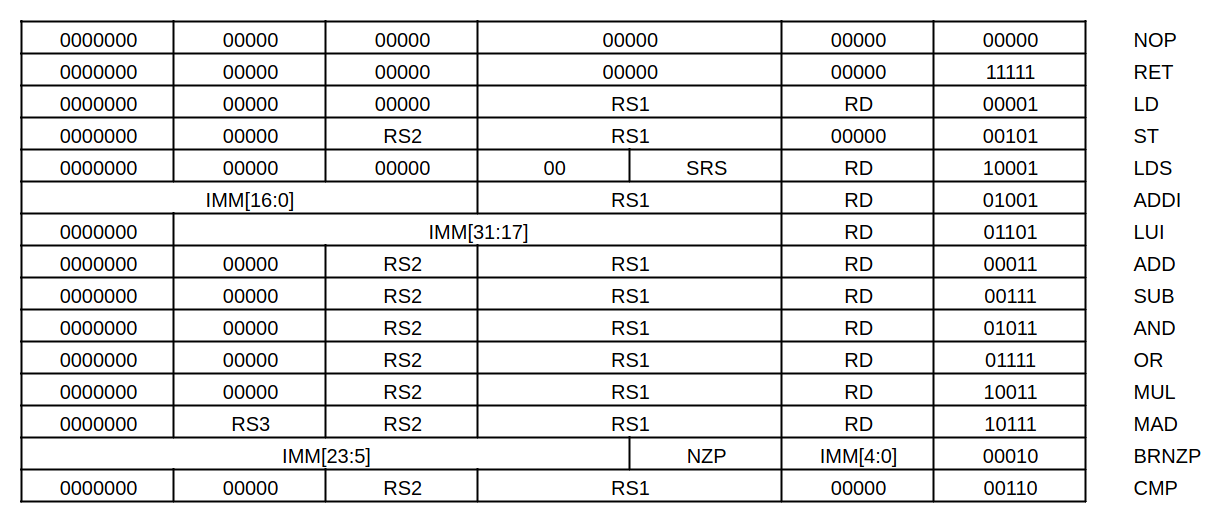
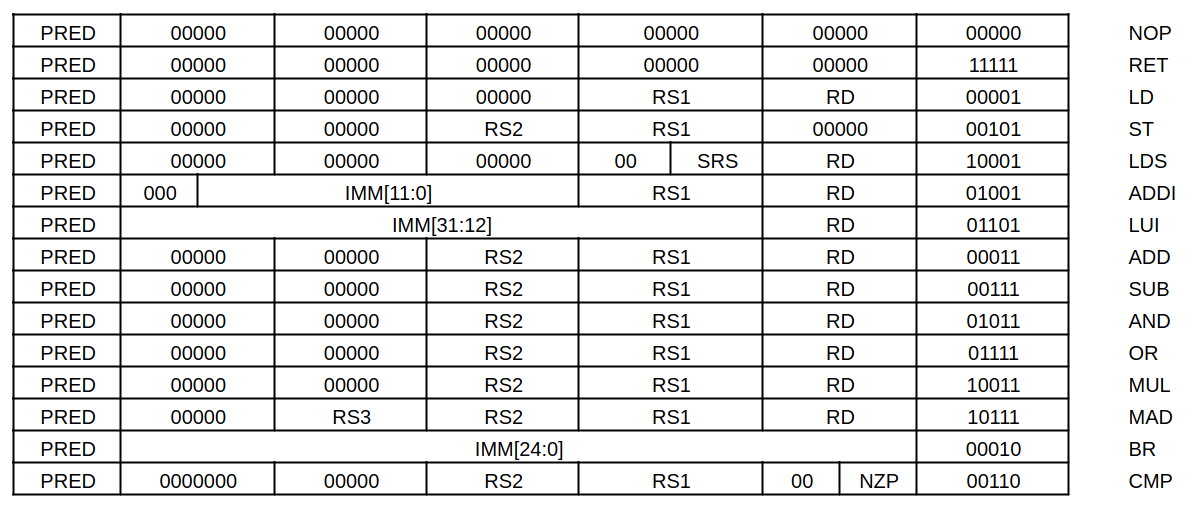
WIP

diff --git a/README.md b/README.md
@@ -1,25 +1,33 @@
 # Time-predictable GPU
 
+## Microarchitecture
+
+![ISA](/images/SM_Overview.png)
+
+## Assembler
+
 ## ISA
 
-| Mnemonic | Opcode | Description |
-|----------|--------|-------------|
-| NOP      | 00000  |             |
-| RET      | 11111  |             |
-| LD       | 00001  |             |
-| ST       | 00101  |             |
-| LDS      | 10001  |             |
-| ADDI     | 01001  |             |
-| LUI      | 01101  |             |
-| ADD      | 00011  |             |
-| SUB      | 00111  |             |
-| AND      | 01011  |             |
-| OR       | 01111  |             |
-| MUL      | 10011  |             |
-| MAD      | 10111  |             |
-| BRNZP    | 00010  |             |
-| CMP      | 00110  |             |
+| Mnemonic | Opcode | Description                          |
+|----------|--------|--------------------------------------|
+| NOP      | 00000  | No operation                         |
+| RET      | 11111  | Return from execution                |
+| LD       | 00001  | Load from memory                     |
+| ST       | 00101  | Store to memory                      |
+| LDS      | 10001  | Load data from special register file |
+| ADDI     | 01001  | Add immediate to operand             |
+| LUI      | 01101  | Load upper 20 bits                   |
+| SRLI     | 10001  | Shift right logical immediate        |
+| SLLI     | 10101  | Shift left logical immediate         |
+| ADD      | 00011  | Add two operands                     |
+| SUB      | 00111  | Subtract two operands                |
+| AND      | 01011  | Bitwise AND                          |
+| OR       | 01111  | Bitwise OR                           |
+| MUL      | 10011  | Multiply two operands                |
+| MAD      | 10111  | Multiply-Accumulate                  |
+| BR       | 00010  | Branch                               |
+| CMP      | 00110  | Compare two operands                 |
 
-### Instruction encoding
+## Instruction encoding
 
 ![ISA](/images/isa.png)
